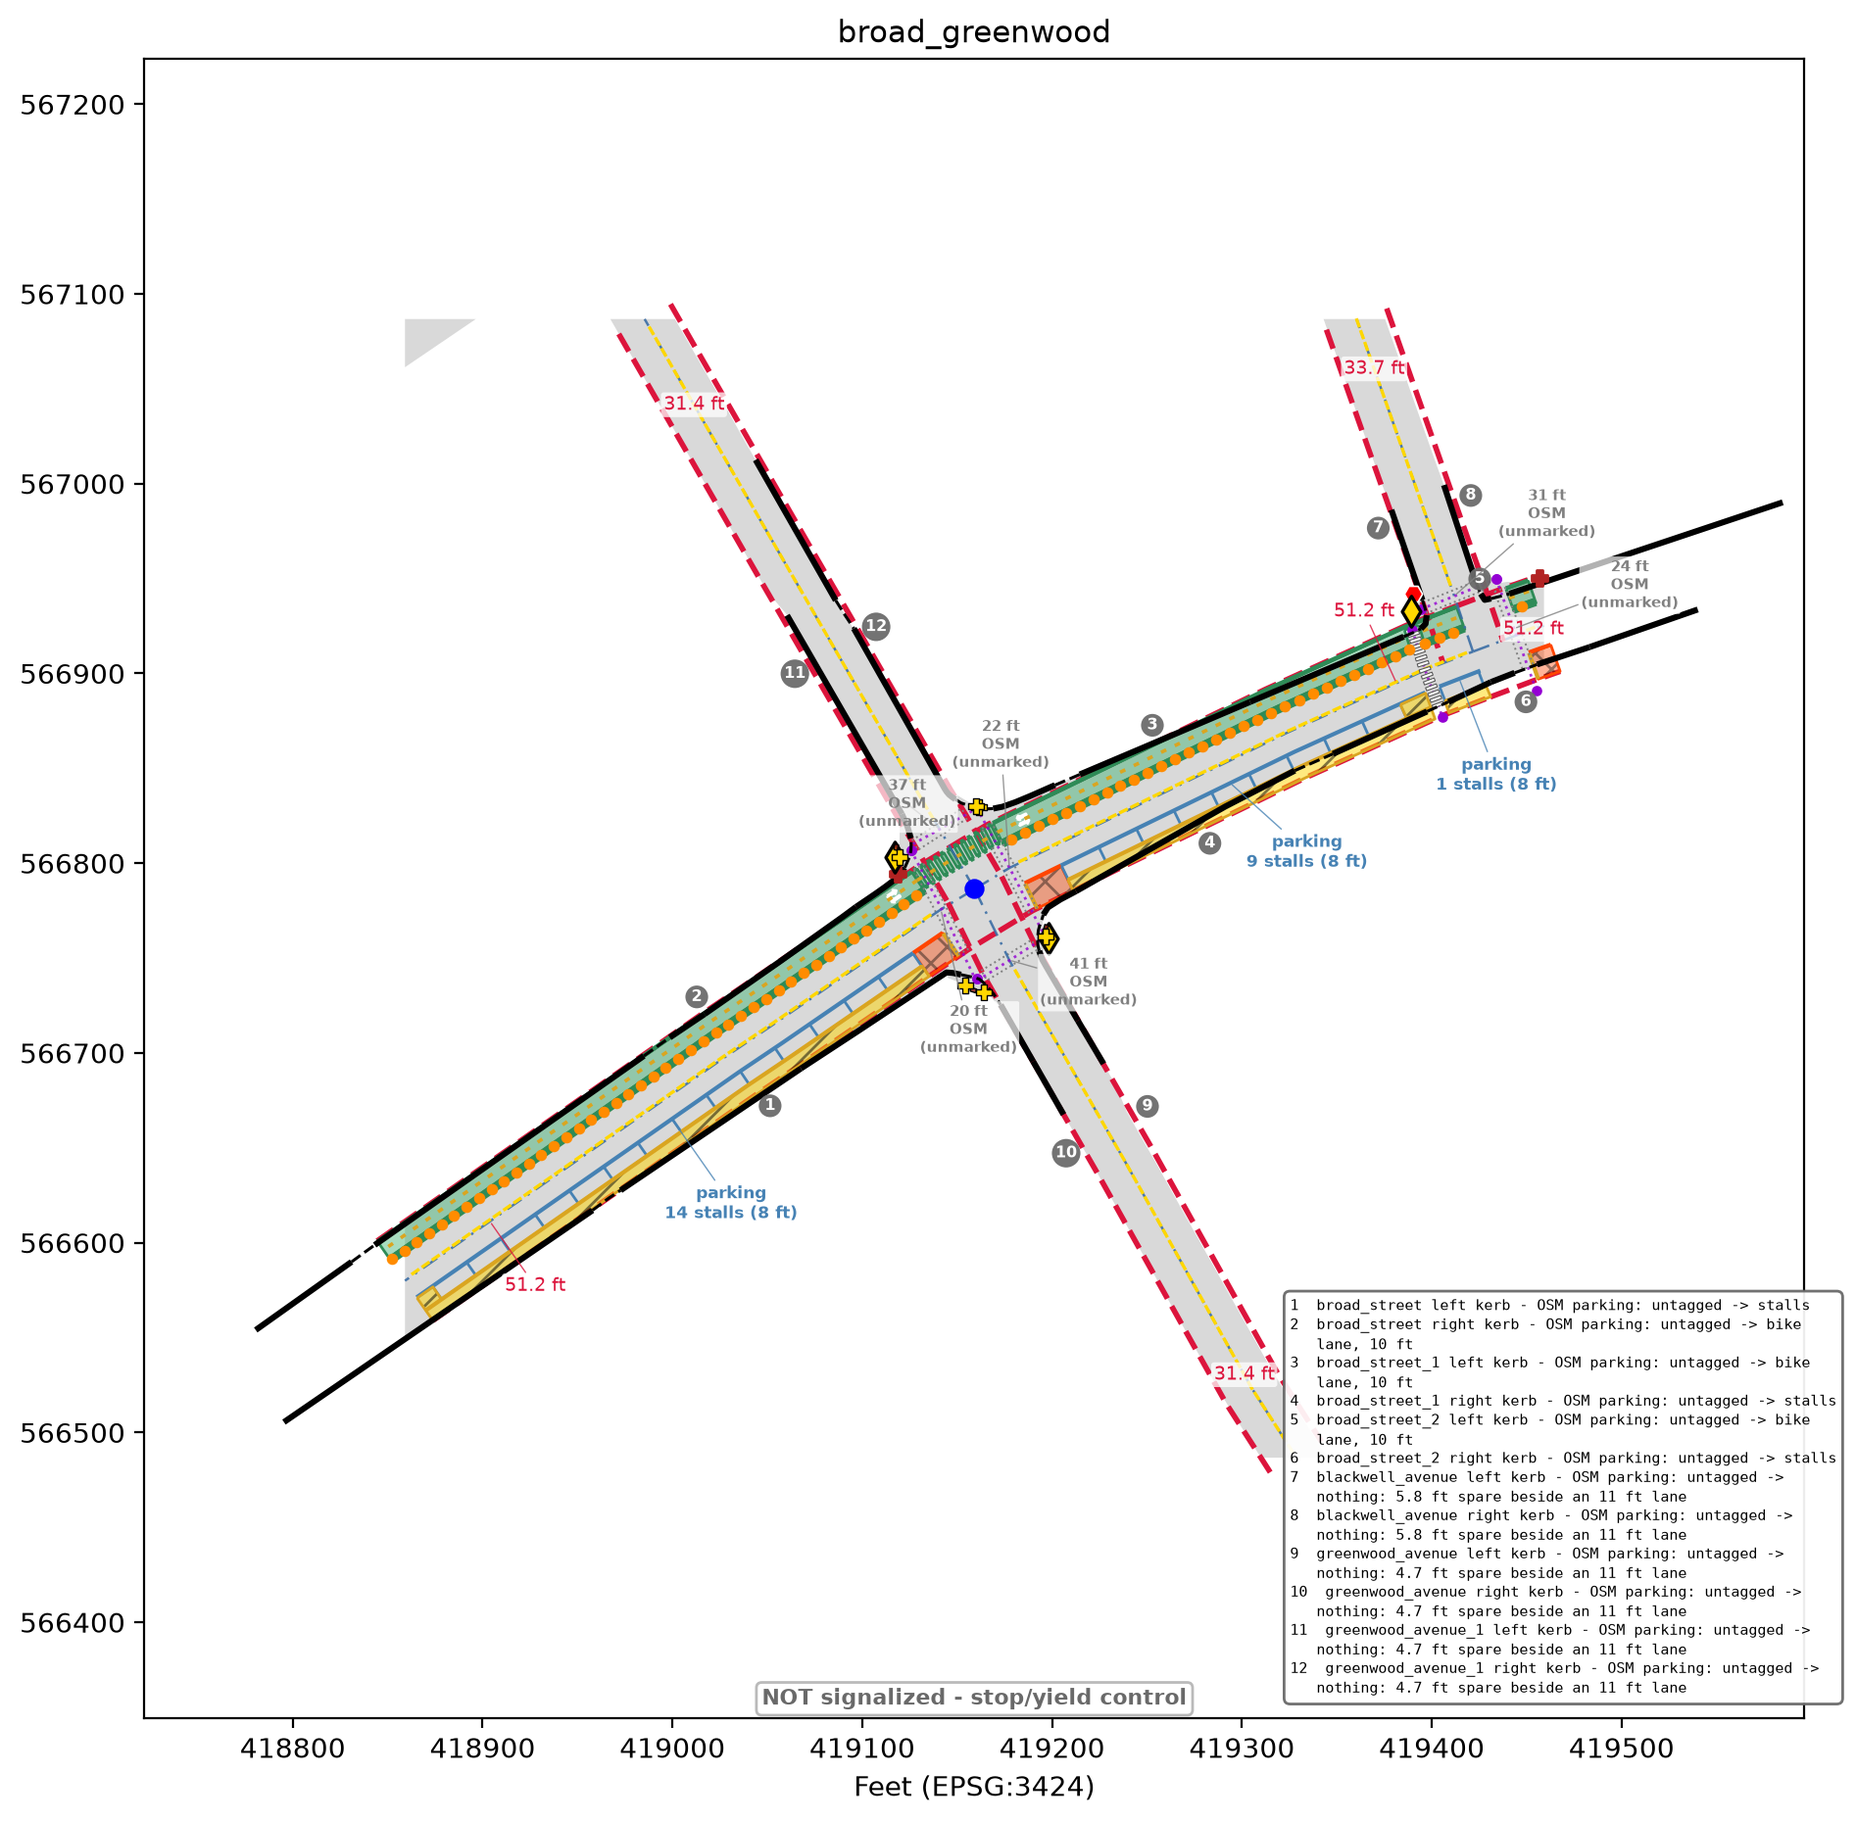
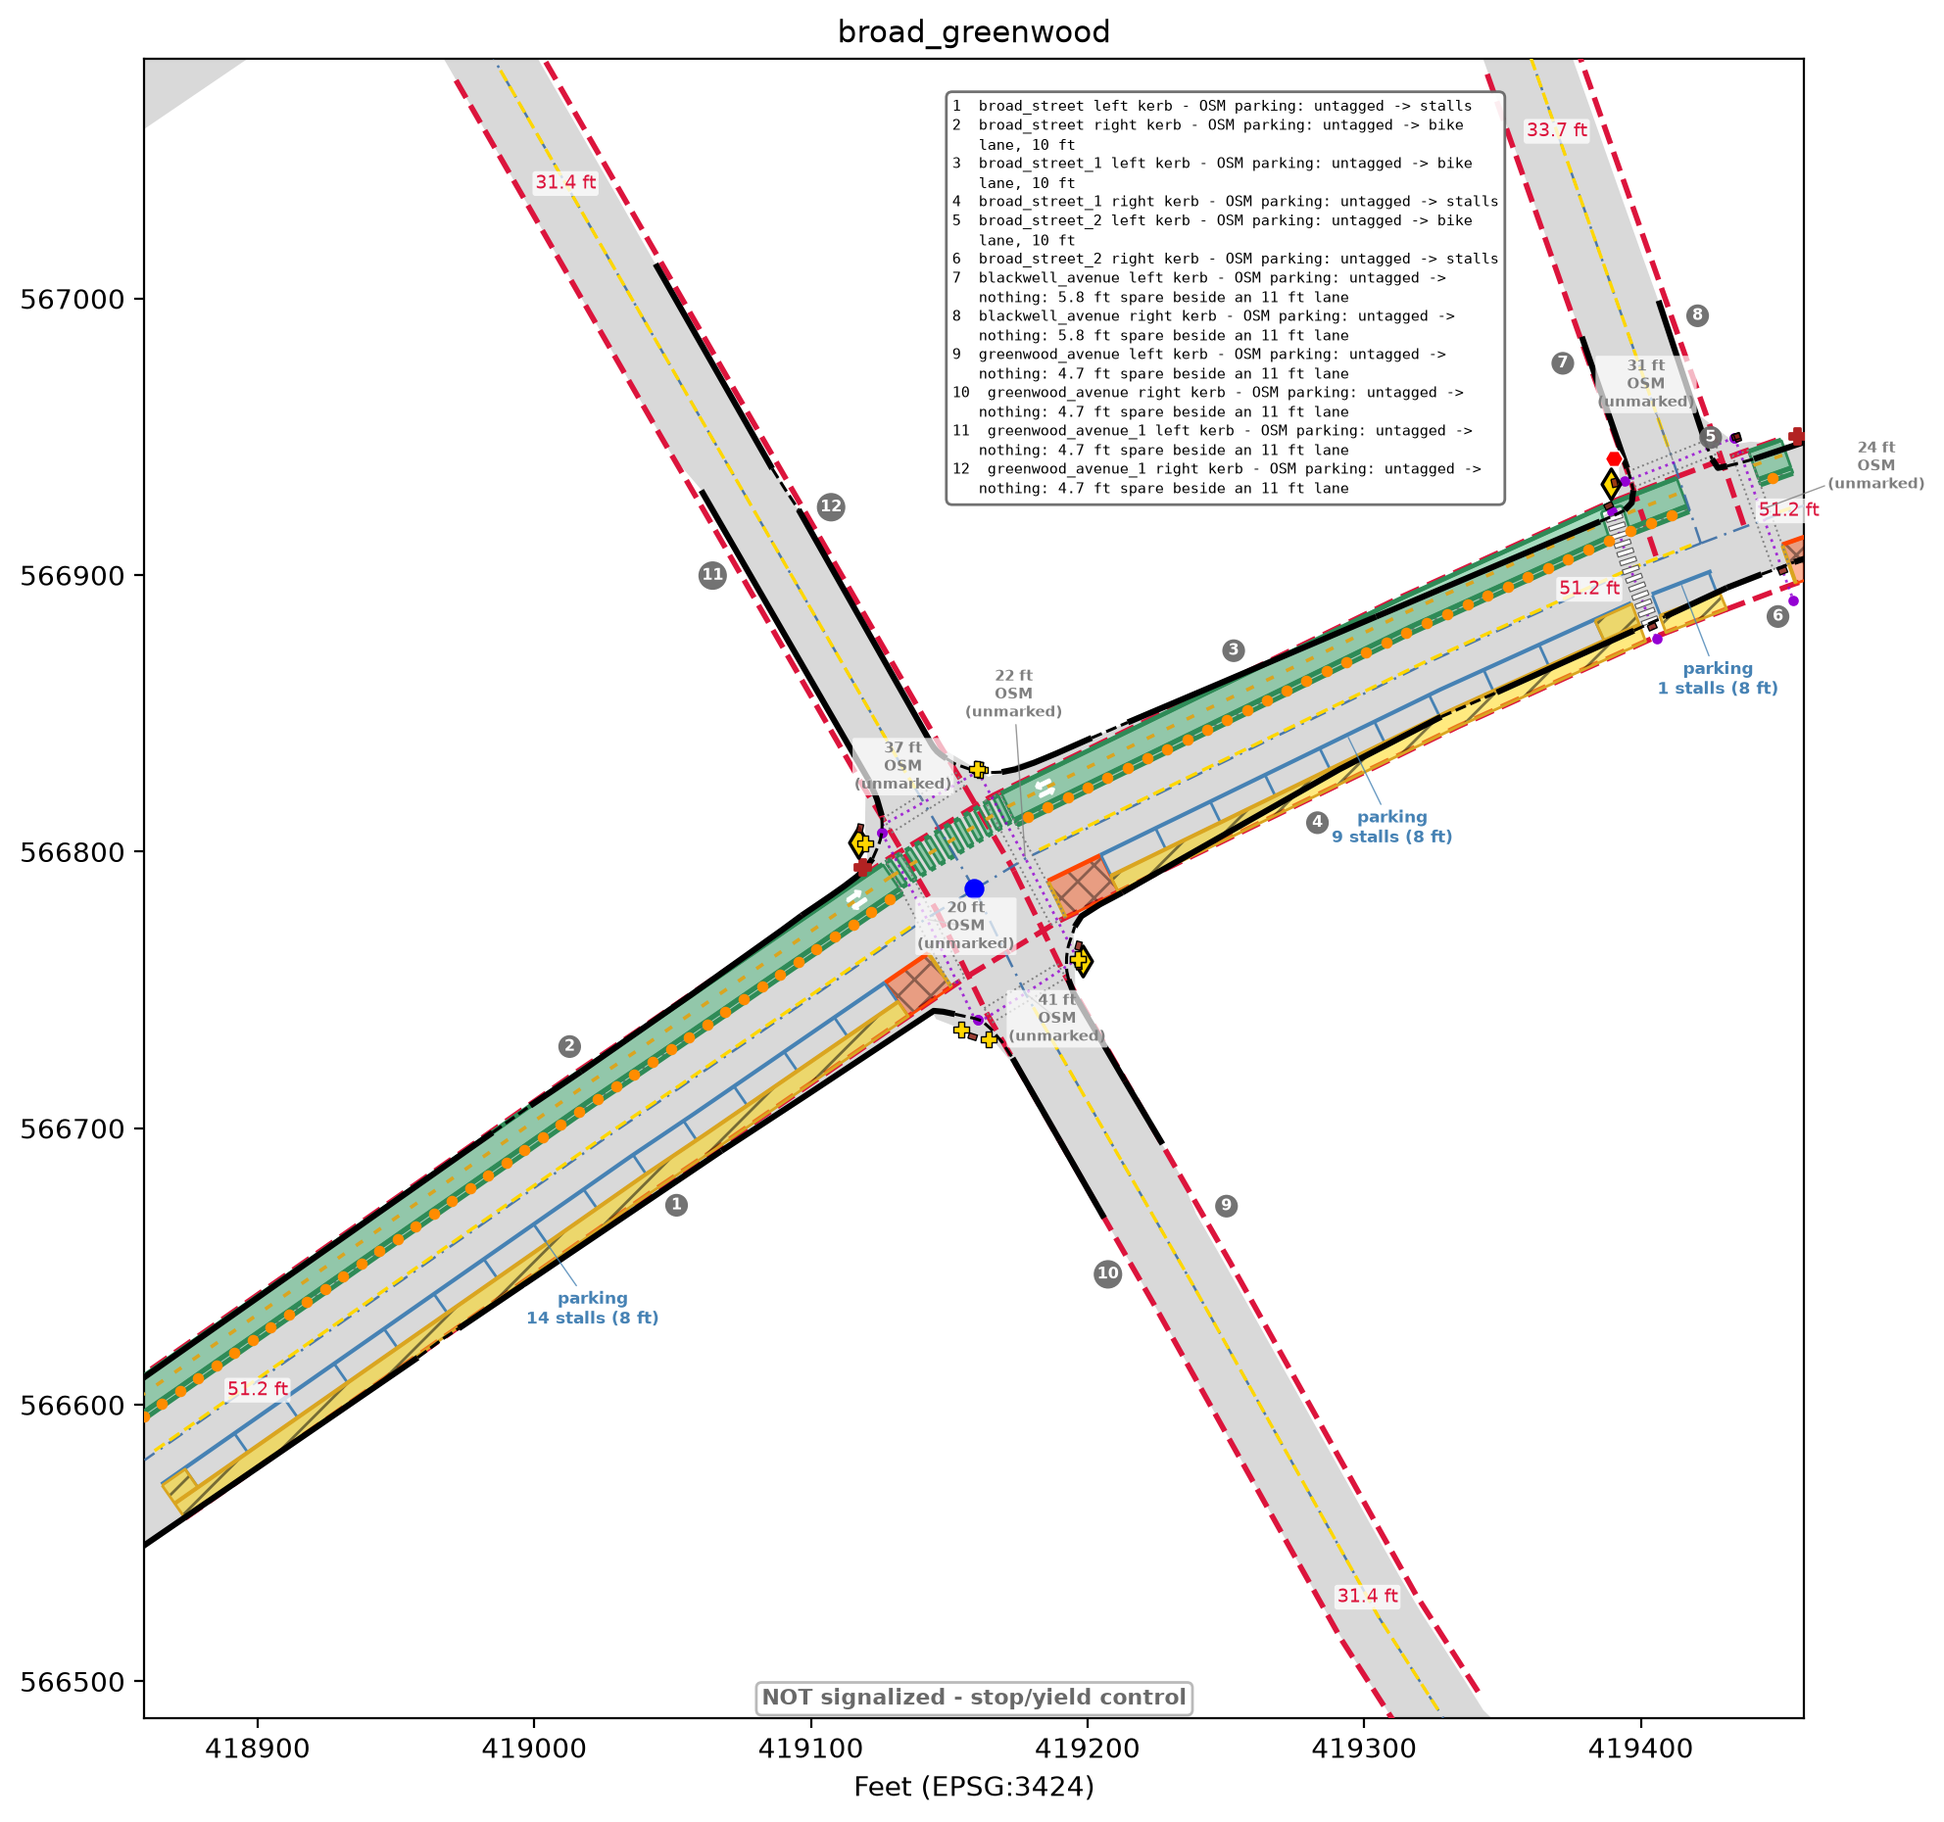
Drop centrality: a drawing covers its window, not a radius from a centre
There is no such thing as a neighbouring junction. A feature is in the window or it
is not, and everything in it gets drawn. Two things still disagreed with that.

THE FRAME WAS DERIVED, NOT GIVEN. `junction_frame` sizes itself on how far the longest
leg reaches from the junction - right for one junction, wrong for a crop. On a 600 ft
window it returned a 437 ft half-width, so the coverage report demanded surveyed
features from 137 ft outside the clip the slice was built from and called them missing:
2 crossings and 2 kerbs the document had never been asked for. A Frame is already a
square about a centre, so a window IS one; `export_scenario` and `plot_design_state`
now take it the same way they take `pavement` and `kerb_ways`, and a junction still
derives its own when nobody says otherwise. Those four phantom gaps are gone.

THE PAD FILTER WAS A RADIUS FROM THE CENTRE. PAD_NEAR_JUNCTION_FT = 90 ft could only
answer "is this ramp ours" while a drawing was one junction, and it threw away real
surveyed ramps at 231-415 ft as somebody else's when they were in the picture. A ramp
marks a kerb, so the question is whether THIS drawing has a kerb for it to sit against
- which is exactly what `pad_off_the_kerb` already asks, so the emitter and the
invariant now agree by construction rather than by a tuned radius. The check still
guards the pads `_tactile_pad_props` infers from a crossing, placed another way.
[…]

diff --git a/src/render/props.py b/src/render/props.py
@@ -8,6 +8,7 @@ import numpy as np
 from shapely.geometry import LineString, Point, Polygon
 
 from src.geometry.intersection import IntersectionModel
+from src.checks import PAD_MAX_DISTANCE_FROM_CURB_FT, _all_curb_lines
 from src.geometry.model import bollard_points_ft, build_pavement_polygon, leg_clearance_ft
 from src.geometry.treatments import DesignState
 from src.render.coords import wgs84_to_state_plane
@@ -66,7 +67,6 @@ CROSSING_NODE_MATCH_FT = 20.0
 TACTILE_PAD_DEPTH_FT = 2.0
 TACTILE_PAD_WIDTH_FT = 3.0
 PAD_MAX_STEP_FT = 12.0   # past this, the modelled pavement has swallowed the footway
-PAD_NEAR_JUNCTION_FT = 90.0  # a ramp belonging to THIS junction; crossings/kerbs are fetched
                               # over a much wider radius for context, and three of Columbia &
                               # Princeton's 'ramps' were 350+ ft away at a different junction
 
@@ -192,7 +192,8 @@ def pad_polygon(x: float, y: float, heading_deg: float,
     ])
 
 
-def _kerb_tactile_pad_props(kerb_ways: list, crossings: list[dict], pavement, center_ft: Point = None):
+def _kerb_tactile_pad_props(kerb_ways: list, crossings: list[dict], pavement,
+                             curbs: list | None = None):
     """One tactile pad per ATTACH NODE - a node shared by a crossing way and a
     tactile_paving kerb way - deduplicated by node id.
 
@@ -219,8 +220,6 @@ def _kerb_tactile_pad_props(kerb_ways: list, crossings: list[dict], pavement, ce
             continue
         kxs, kys = wgs84_to_state_plane.transform([c[0] for c in coords], [c[1] for c in coords])
         kerb_line = LineString(zip(kxs, kys))
-        if center_ft is not None and kerb_line.distance(center_ft) > PAD_NEAR_JUNCTION_FT:
-            continue  # a ramp at a neighbouring junction, pulled in by the context fetch radius
         for node_id in kerb.get("node_ids") or []:
             kerb_by_node[node_id] = {"kerb": kerb, "line": kerb_line}
 
@@ -245,6 +244,16 @@ def _kerb_tactile_pad_props(kerb_ways: list, crossings: list[dict], pavement, ce
                       f"Not drawn. Check this junction's widths and corner radii.")
                 continue
             heading, pos = placed
+            # IN THE DRAWING OR NOT - there is no "neighbouring junction". This was a 90 ft radius
+            # from the junction CENTRE, which can only answer "is this ramp ours" while a drawing
+            # is one junction; a window onto the network holds several, and measuring from its
+            # centre threw away real ramps at 231-415 ft as somebody else's when they were right
+            # there in the picture. A ramp marks a kerb, so the question is whether THIS drawing
+            # has a kerb for it to sit against - which is also exactly what `pad_off_the_kerb`
+            # asks, so emitter and invariant now agree by construction. The check still guards the
+            # pads `_tactile_pad_props` infers from a crossing, which are placed another way.
+            if curbs and min(curb.distance(Point(*pos)) for curb in curbs) > PAD_MAX_DISTANCE_FROM_CURB_FT:
+                continue
             props.append({
                 "type": "tactile_paving_pad", "position_ft": pos, "heading_deg": heading,
                 "pad_depth_ft": TACTILE_PAD_DEPTH_FT, "pad_width_ft": TACTILE_PAD_WIDTH_FT,
@@ -363,7 +372,8 @@ def _osm_crossing_hardware_props(state: DesignState, crossings: list[dict], node
 
     pavement = pavement if pavement is not None else _modelled_pavement(state)
 
-    kerb_pads, covered_ways = _kerb_tactile_pad_props(kerb_ways or [], crossings, pavement, center_ft)
+    kerb_pads, covered_ways = _kerb_tactile_pad_props(
+        kerb_ways or [], crossings, pavement, _all_curb_lines(state.legs, state.corner_fillets))
 
     # Which crossings already have their ramps placed from traced kerb geometry. Suppression
     # is PER CROSSING, not global: a junction can have some corners traced and some not, and

diff --git a/scripts/render_slice.py b/scripts/render_slice.py
@@ -33,6 +33,7 @@ from src.geometry.treatments import route_decision_for
 from src.sources.osm_context import (height_from_tags, is_street_furniture,
                                      is_traffic_control)
 from src.render.export import export_scenario
+from src.render.frame import Frame
 from src.render.plan_view import plot_design_state
 
 REPO_ROOT = Path(__file__).resolve().parents[1]
@@ -126,6 +127,20 @@ def slice_context(features: gpd.GeoDataFrame) -> dict[str, list[dict]]:
     }
 
 
+def window_frame(features: gpd.GeoDataFrame) -> Frame:
+    """The extent the drawing covers: the WINDOW, not a radius derived from the legs.
+
+    `junction_frame` sizes itself on how far the longest leg reaches from the junction, which is
+    the right answer when the drawing is one junction and the wrong one when it is a crop: on a
+    600 ft window it returned a 437 ft half-width, so the coverage report demanded surveyed
+    features from 137 ft outside the clip the slice was built from and called them missing.
+    A Frame is already a square about a centre, so a window IS one.
+    """
+    minx, miny, maxx, maxy = features.total_bounds
+    return Frame(Point((minx + maxx) / 2, (miny + maxy) / 2),
+                 max(maxx - minx, maxy - miny) / 2)
+
+
 def context_layers(context: dict[str, list[dict]]) -> dict[str, list[dict]]:
     """The layers BOTH views take, so neither can be handed a set the other was not.
 
@@ -154,7 +169,8 @@ def draw_2d(features: gpd.GeoDataFrame, name: str, out_dir: Path) -> Path:
     model, state, pavement = design_for(features)
     context = slice_context(features)
     fig, ax = plt.subplots(figsize=(11, 11))
-    plot_design_state(ax, model, state, name, pavement=pavement, sidewalks=[], **context_layers(context))
+    plot_design_state(ax, model, state, name, pavement=pavement, sidewalks=[],
+                      frame=window_frame(features), **context_layers(context))
     out_dir.mkdir(parents=True, exist_ok=True)
     out = out_dir / f"{name}.png"
     fig.savefig(out, dpi=200, bbox_inches="tight", facecolor="white")
@@ -170,6 +186,7 @@ def draw_3d(features: gpd.GeoDataFrame, name: str, out_dir: Path) -> Path:
     out_dir.mkdir(parents=True, exist_ok=True)
     geometry, png = out_dir / f"{name}_3d.json", out_dir / f"{name}_3d.png"
     export_scenario(model, state, name, geometry, pavement=pavement,
+                    frame=window_frame(features),
                     buildings=context["buildings"], **context_layers(context))
     render_all(find_blender(), [(geometry, png)])
     return png

diff --git a/src/render/scene.py b/src/render/scene.py
@@ -264,20 +264,24 @@ class SceneGeometry:
 
         return check_scene(self.context(props, paint))
 
-    def report_coverage(self, props: list[dict], paint: list) -> list:
+    def report_coverage(self, props: list[dict], paint: list,
+                        frame_radius_ft: float | None = None) -> list:
         """Print, and return, the surveyed features inside the frame that the drawing does not draw.
 
         A NOTE RATHER THAN A FAILURE, deliberately. Kerb ramps and traffic control are PROPS
-        placed per leg, so a neighbouring junction's have nowhere to come from; raising on that
-        would fail every wide render for a reason no scenario can fix, and a check that cannot go
-        green is one people learn to ignore. The crossings layer is clean at all four sites and
-        both frame scales, which is what makes the remaining two worth printing rather than a
-        permanent grumble. See src/geometry/coverage.py.
+        placed per leg, so one at a junction the drawing does not model has nowhere to come from;
+        raising on that would fail a render for a reason no scenario can fix, and a check that
+        cannot go green is one people learn to ignore. See src/geometry/coverage.py.
+
+        `frame_radius_ft` is the extent the CALLER drew, which is the only honest thing to judge
+        coverage against. Derived from the model it is the leg reach plus a margin, and for a
+        crop of the network that overshoots the window - 437 ft against a 300 ft half-width - so
+        the report demanded features the drawing was never given.
         """
         from src.geometry.coverage import coverage_gaps, describe_coverage
 
         gaps = coverage_gaps(self.model, [*paint, *self.crosswalk_bands.values(), *props,
-                                          *self.surveyed_crossing_paint()])
+                                          *self.surveyed_crossing_paint()], frame_radius_ft)
         if gaps:
             print(describe_coverage(gaps))
         return gaps

diff --git a/src/render/export.py b/src/render/export.py
@@ -215,7 +215,7 @@ def export_scenario(model: IntersectionModel, state: DesignState, name: str, out
                      buildings: list[dict] | None = None, crossings: list[dict] | None = None,
                      theme: dict | None = None, traffic_control: list[dict] | None = None,
                      street_furniture: list[dict] | None = None, pavement=None,
-                     kerb_ways: list[dict] | None = None) -> Path:
+                     kerb_ways: list[dict] | None = None, frame=None) -> Path:
     """Every OSM layer may be SUPPLIED rather than fetched, and a caller that supplies one wins.
 
     A junction knows its centre and a radius, so it fetches; a crop of the borough document has
@@ -271,7 +271,7 @@ def export_scenario(model: IntersectionModel, state: DesignState, name: str, out
 
     # Resolved once and read twice - written into the JSON for the camera, and used to decide
     # which traced kerbs are in the picture at all. Two calls would be two chances to disagree.
-    frame = junction_frame(model)
+    frame = frame if frame is not None else junction_frame(model)
     # THE TRACED KERBS, resolved once for the same reason - written out as `kerbs` below. The
     # surveyed-crossing trim against these kerbs lives in SceneGeometry.surveyed_crossing_markings,
     # beside where the crossing's STYLE is resolved, so the two cannot use different kerbs.
@@ -299,7 +299,7 @@ def export_scenario(model: IntersectionModel, state: DesignState, name: str, out
     scene.assert_valid(props, paint, scenario=name)
     # What the surveyor recorded inside this frame that the drawing does not contain.
     # Printed rather than raised - see SceneGeometry.report_coverage.
-    scene.report_coverage(props, paint)
+    scene.report_coverage(props, paint, frame.radius_ft)
     paint_channels = paint_channels_local_m(
         paint, center_ft, lambda name: _leg_heading_deg(state.legs[name]))
 

diff --git a/src/render/plan_view.py b/src/render/plan_view.py
@@ -513,7 +513,7 @@ def draw_change_panel(fig, before: SceneMetrics, after: SceneMetrics) -> Compari
 def plot_design_state(ax, model: IntersectionModel, state: DesignState, title: str, dimension_labels: bool = True,
                        crossings: list[dict] | None = None, sidewalks: list[dict] | None = None,
                        traffic_control: list[dict] | None = None, street_furniture: list[dict] | None = None,
-                       pavement=None, kerb_ways: list[dict] | None = None):
+                       pavement=None, kerb_ways: list[dict] | None = None, frame=None):
     """Every OSM layer may be SUPPLIED rather than fetched, exactly as export_scenario takes them,
     so the two views cannot be drawn from different data. See that function for why a crop has to
     supply them; `pavement` likewise overrides the ring built from corner fillets it has none of.
@@ -698,7 +698,7 @@ def plot_design_state(ax, model: IntersectionModel, state: DesignState, title: s
     ax.set_aspect("equal")
     # The frame the 3D render is pointed at as well, measured from the model rather than from
     # this DesignState so a before/after pair shares one frame - see src/render/frame.py.
-    xmin, xmax, ymin, ymax = junction_frame(model).bounds_ft()
+    xmin, xmax, ymin, ymax = (frame if frame is not None else junction_frame(model)).bounds_ft()
     ax.set_xlim(xmin, xmax)
     ax.set_ylim(ymin, ymax)
     # Only now: a label's size in feet is a fact about the limits on the line above, and what it
